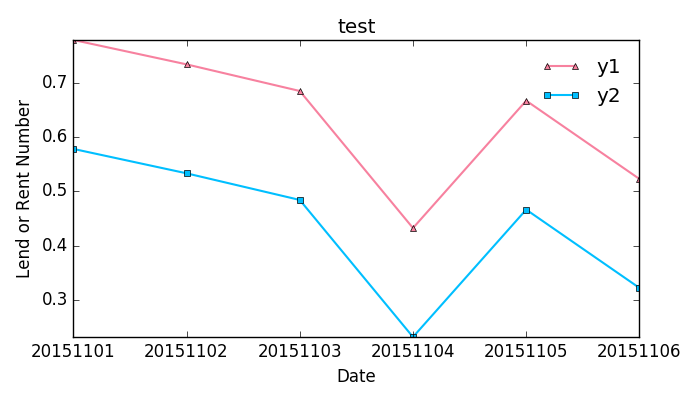
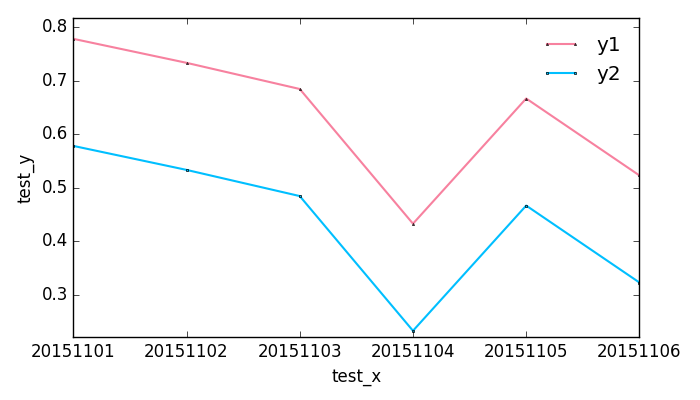
beautify line graph; add line styler, legend styler, font styler

diff --git a/python/my_matplotlib/stylers.py b/python/my_matplotlib/stylers.py
@@ -1,0 +1,114 @@
+# -*- coding: utf-8 -*-
+# @Time    : 17-12-17
+# @Author  : Wutao Lin
+# @Environment : Python 3.5
+# @function:
+
+import matplotlib.pyplot as plt
+
+
+class LineStyler(object):
+    marker_size = 5
+    line_width = 1.5
+    def __init__(self, line_width=None, marker_size=None, select_styles=[]):
+        """
+
+        :param line_width:
+        :param marker_size:
+        :param select_styles:  a list contains the indices of self.line_styles
+        """
+        self.update_style()
+
+        if len(select_styles) != 0:
+            self.line_styles = [self.line_styles[i] for i in select_styles]
+
+        if line_width is not None:
+            self.set_line_width(line_width)
+        if marker_size is not None:
+            self.set_marker_size(marker_size)
+
+
+    def update_style(self):
+        self.line_styles = [
+            {
+                'style': '^-',      #三角形
+                'line_width': self.line_width,
+                'marker_size': self.marker_size + 1.5,  # 这个三角形看着偏小一点
+                'color': '#ff9999'  # 浅粉色
+            },
+            {
+                'style': 's-',    #正方形
+                'line_width': self.line_width,
+                'marker_size': self.marker_size,
+                'color': '#00BFFF'  # 浅蓝色
+            },
+            {
+                'style': '*-',    # 五角星
+                'line_width': self.line_width,
+                'marker_size': self.marker_size + 3,
+                'color': '#b3ffb3'  # 浅绿色
+            },
+            {
+                'style': 'D-',    #菱形放置的正方形
+                'line_width': self.line_width,
+                'marker_size': self.marker_size,
+                'color': '#ffa366'  # 橙色
+            },
+            {
+                'style': '+-',    # +
+                'line_width': self.line_width,
+                'marker_size': self.marker_size + 1.5,
+                'color': '#999999'  # 灰色
+            },
+        ]
+
+    def get_style(self, index):
+        if index >= len(self.line_styles):
+            raise Exception("The pre-defined line style is not enough!")
+        return self.line_styles[index]
+
+    def set_line_width(self, line_width):
+        if isinstance(line_width, list):
+            for i in range(len(line_width)):
+                if i < len(self.line_styles):
+                    self.line_styles[i]['line_width'] = line_width[i]
+        elif isinstance(line_width, float) or isinstance(line_width, int):
+            self.line_width = line_width
+            self.update_style()
+
+    def set_marker_size(self, marker_size):
+        if isinstance(marker_size, list):
+            for i in range(len(marker_size)):
+                if i < len(self.line_styles):
+                    self.line_styles[i]['marker_size'] = marker_size[i]
+        elif isinstance(marker_size, float) or isinstance(marker_size, int):
+            self.marker_size = marker_size
+            self.update_style()
+
+
+class FontStyler():
+    def __init__(self, font_family='Times New Roman', font_size=10):
+        self.font_family = font_family
+        self.font_size = font_size
+
+    def set_global_font_family(self):
+        plt.rc('font', family=self.font_family)
+
+
+class LegendStyler():
+    def __init__(self, loc='upper right', frameon=False, font_size=11):
+        self.loc = loc
+        self.frameon = frameon
+        self.prop = {
+            'family': 'Times New Roman',
+            'size': font_size,
+        }
+
+    def get_loc(self):
+        return self.loc
+
+    def get_frameon(self):
+        return self.frameon
+
+    def get_prop(self):
+        return self.prop

diff --git a/python/my_matplotlib/line_compare.py b/python/my_matplotlib/line_compare.py
@@ -1,68 +1,69 @@
 # -*- coding: utf-8 -*-
 import matplotlib.pyplot as plt
 import numpy as np
+from . import LineStyler, LegendStyler
+
+plt.rc('font',family='Times New Roman')
+
+def make_line_graph(x_list, y_lists, x_label, y_label, legends, x_ticks=None, figure_path=None, figure_title=None, figure_size=[5, 3],
+        line_styler=None, legend_styler=None, y_range=None):
+    assert len(y_lists) == len(legends)
+    assert len(x_list) == len(y_lists[0]) == len(x_ticks)
+
+    if y_range is None:
+        y_max = - float('inf')
+        y_min = float('inf')
+
+        for y_list in y_lists:
+            for y in y_list:
+                if y > y_max:
+                    y_max = y
+                if y < y_min:
+                    y_min = y
+        y_max = y_max * 1.05
+        y_min = y_min * 0.95
+    else:
+        y_min = y_range[0]
+        y_max = y_range[1]
+
+    if line_styler is None:
+        line_styler = LineStyler()
+    if legend_styler is None:
+        legend_styler = LegendStyler()
 
 
-def make_line_graph(x_ticks, y1, figure_path="test.jpg", figure_title="test", y1_desc="y1", y2_desc="y2", y2=None):
-    """
-
-    Args:
-        x_ticks:  x轴标签
-        y1:  第一个预测值的列
-        figure_path: *.jpg
-        figure_title:
-        y1_desc: 图例描述
-        y2_desc:
-        y2:  第二个预测值的列
-
-    Returns:
-
-    """
-
-    assert len(x_ticks) == len(y1)
-    x = np.arange(len(x_ticks))
-
-    y_max = y1.max()
-    y_min = y1.min()
-
-    if y2 is not None:
-        assert len(y1) == len(y2)
-        if y2.max() > y_max:
-            y_max = y2.max()
-        if y2.min() < y_min:
-            y_min = y2.min()
-
-
-    plt.figure(figsize=[7, 4])
+    plt.figure(figsize=figure_size)
     plt.ylim(y_min, y_max)
 
-    plt.plot(x, y1, '^-', label=y1_desc, linewidth=1.5, markersize=5, color="#F7819F")
-    if y2 is not None:
-        plt.plot(x, y2, 's-', label=y2_desc, linewidth=1.5, markersize=5, color="#00BFFF")
-        plt.legend(loc='upper right', frameon=False)
+    if x_ticks is not None:
+        plt.xticks(x_list, x_ticks)
 
-    else:
-        plt.legend(loc='upper right', frameon=False)
+    for i in range(len(y_lists)):
+        cur_style = line_styler.get_style(i)
+        plt.plot(x_list, y_lists[i], cur_style['style'], label=legends[i], linewidth=cur_style['line_width'],
+            markersize=cur_style['marker_size'], markeredgecolor=cur_style['color'], color=cur_style['color'])
 
-    #plt.xlim(0.5, 6.5)
-    #plt.yticks([0, 0.1, 0.2, 0.3, 0.4, 0.5], [u'0%', u'10%', u'20%', u'30%', u'40%', u'50%'])
-
-    plt.title(figure_title)
-    plt.xlabel("Date")
-    plt.xticks(x, x_ticks)
-    plt.ylabel("Lend or Rent Number")
+    plt.legend(loc=legend_styler.loc, frameon=legend_styler.frameon, prop=legend_styler.prop)
+    if figure_title is not None:
+        plt.title(figure_title)
+    plt.xlabel(x_label)
+    plt.ylabel(y_label)
     plt.tight_layout()
-
-    #plt.show()
-    plt.savefig(figure_path)
+    if figure_path is None:
+        plt.show()
+    else:
+        plt.savefig(figure_path, dpi=300)
 
 
 if __name__ == "__main__":
     x_ticks = ["20151101", "20151102", "20151103", "20151104", "20151105", "20151106"]
+    x_lists = np.arange(len(x_ticks))
 
     y1 = [0.778128, 0.733309, 0.684417, 0.432836, 0.666667, 0.522936]
     y2 = []
     for y in y1:
         y2.append(y - 0.2)
+    y_lists = [y1, y2]
+    make_line_graph(x_lists, y_lists, "test_x", "test_y", ['y1', 'y2'], x_ticks=x_ticks, figure_path='line_compare.png',
+        figure_title=None, figure_size=[7, 4])
 
-    make_line_graph(x_ticks, np.array(y1), y2=np.array(y2), figure_path="line_compare.png")

diff --git a/python/my_matplotlib/bar_compare_multiple.py b/python/my_matplotlib/bar_compare_multiple.py
@@ -6,6 +6,8 @@ import numpy as np
 from matplotlib.ticker import MultipleLocator, NullLocator
 from scipy import interpolate
 
+plt.rc('font',family='Times New Roman')
+
 def make_sub_compare_graph(row_num, col_num, i, x1_data, y1_data, x2_data, y2_data, x3_data, y3_data, bar_width, title="", x_label="", y_label="", legend1="", legend2="", legend3="", x_range=[], y_range=[], xticks_x=[], xticks_label=[], yticks_y=[], yticks_label=[]):
 	'''用于画对比子图
 	x_range: 数组，x_range[0]表示最小值,x_range[1]表示最大值

diff --git a/python/my_matplotlib/matrix_and_vector.py b/python/my_matplotlib/matrix_and_vector.py
@@ -16,6 +16,9 @@ elif platform.system() == "Darwin":
 import matplotlib.pyplot as plt
 import numpy as np
 
+
+plt.rc('font',family='Times New Roman')
+
 def show_matrix(matrix, sentence1, sentence2, fig_path=None, fig_size=None, with_colorbar=False,
         with_norm=True):
     """ show matrix

diff --git a/python/my_matplotlib/bar_compare_single.py b/python/my_matplotlib/bar_compare_single.py
@@ -7,6 +7,9 @@ import numpy as np
 from matplotlib.ticker import MultipleLocator, NullLocator
 from scipy import interpolate
 
+plt.rc('font',family='Times New Roman')
+
+
 def make_model_compare_graph():
     fig = plt.figure(figsize = [5, 3])    #[width, height]
 

diff --git a/python/my_matplotlib/__init__.py b/python/my_matplotlib/__init__.py
@@ -1,0 +1,3 @@
+from .stylers import LineStyler
+from .stylers import LegendStyler
+from .stylers import FontStyler
